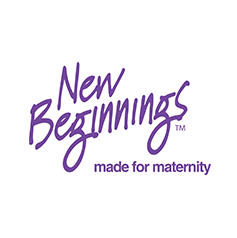
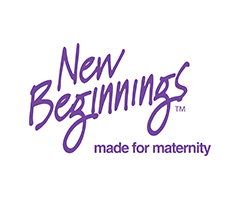
featured brands
featured brands

Changed region(s): [[0.1181, 0.21, 0.8861, 0.78]]

diff --git a/tbi/css/style.css b/tbi/css/style.css
@@ -506,7 +506,7 @@ a:active {
     vertical-align: middle;
     /**max-height: 300px;**/
     max-width: 150px;
-	margin-bottom: 50px;
+	margin-bottom: 30px;
 	opacity: 0.5;
 	filter: opacity(0.5) grayscale(100%);
 	-webkit-filter: opacity(0.5) grayscale(100%);
